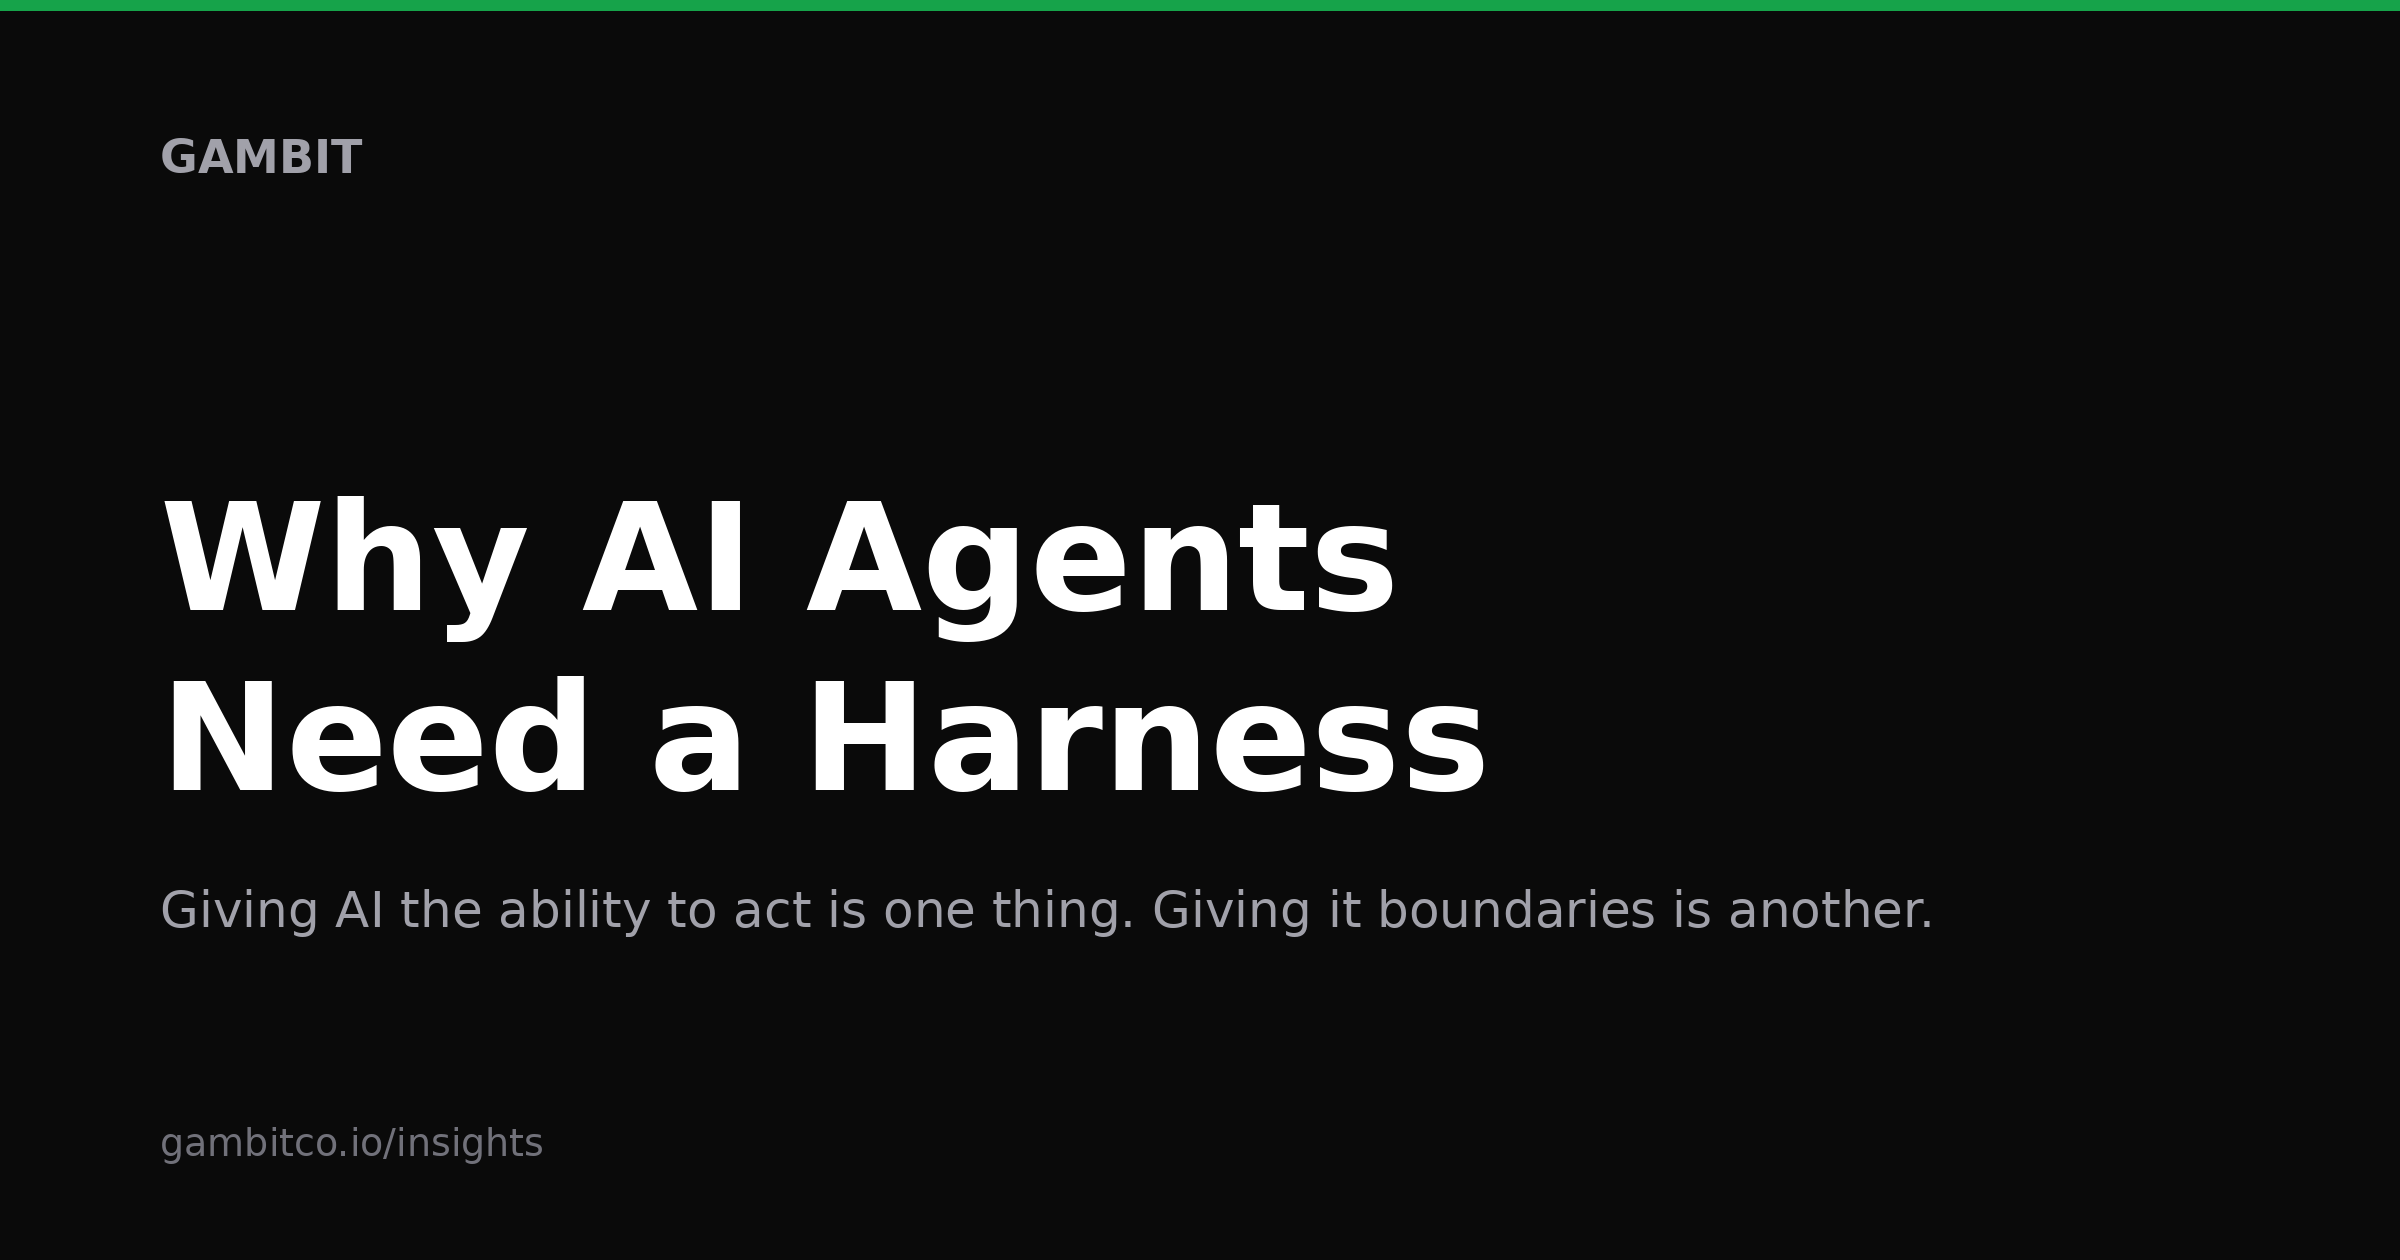
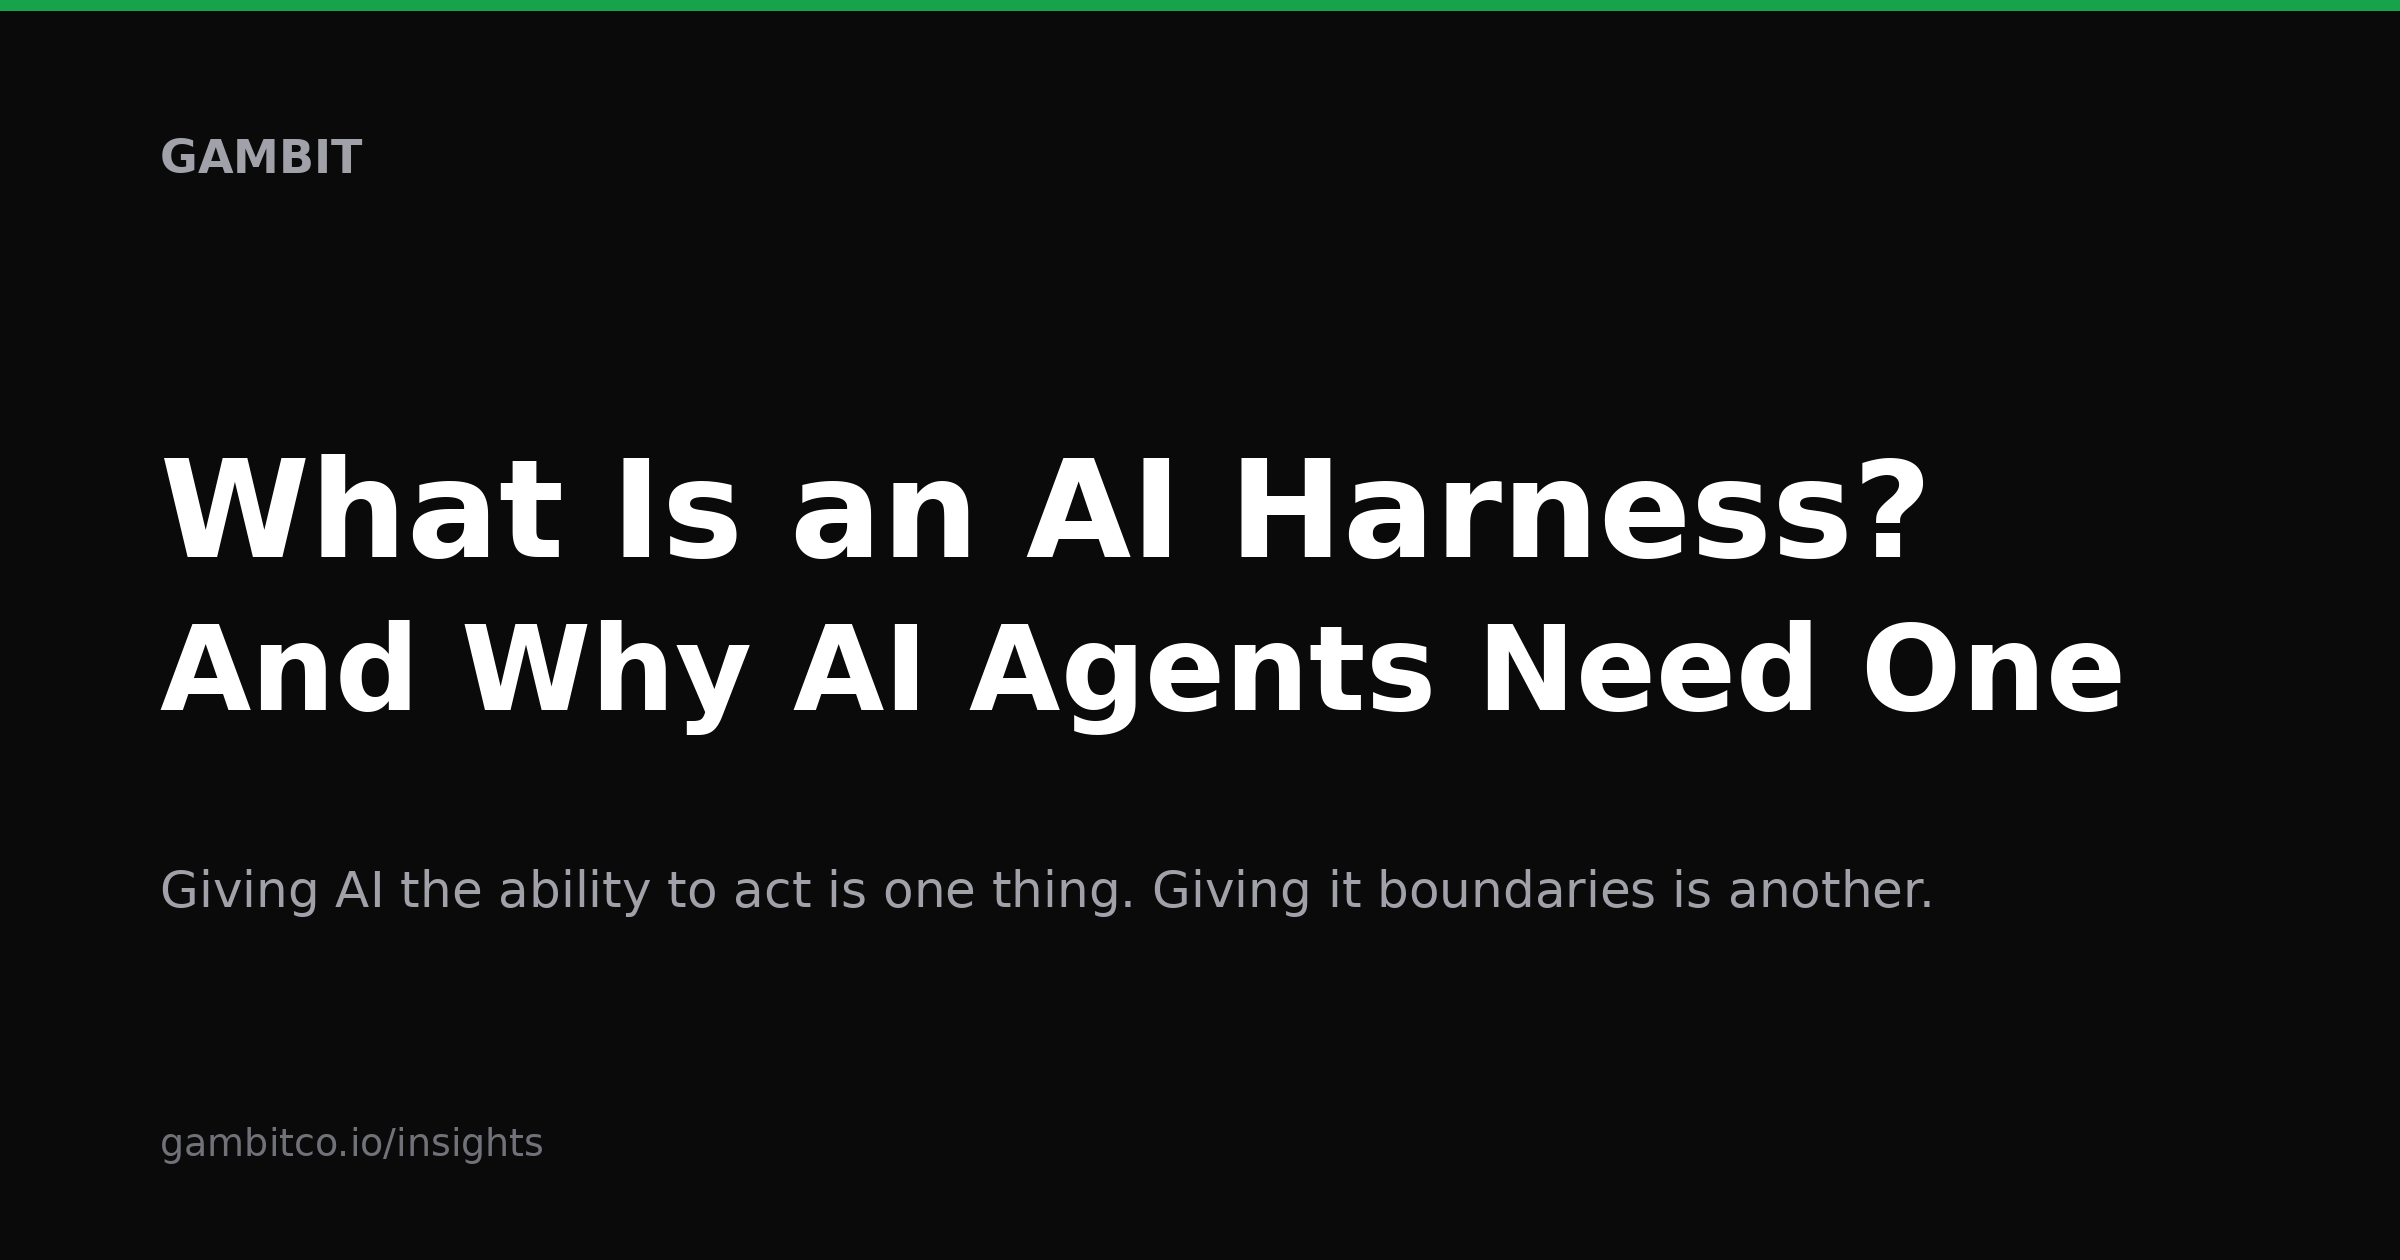
Retitle harness post to 'What Is an AI Harness? And Why AI Agents Need One'
Update the H1, title tag, Open Graph/Twitter titles, image alt text,
Article headline and breadcrumb in JSON-LD, the Insights featured card,
the homepage latest row, and llms.txt. Regenerate the placeholder
feature image with the new title. URL and image path are unchanged;
body copy is unchanged.

Claude-Session: https://claude.ai/code/session_01V5RbvJXGwmqMfodqdC8wpe

Changed region(s): [[0.0625, 0.3405, 0.9062, 0.65], [0.0625, 0.681, 0.8125, 0.7429]]

diff --git a/why-ai-agents-need-a-harness.html b/why-ai-agents-need-a-harness.html
@@ -19,7 +19,7 @@
 </script>
 <meta charset="UTF-8">
 <meta name="viewport" content="width=device-width, initial-scale=1.0">
-<title>Gambit | Why AI Agents Need a Harness</title>
+<title>Gambit | What Is an AI Harness? And Why AI Agents Need One</title>
 
 <!-- PRIMARY SEO -->
 <meta name="description" content="What is an AI harness? It’s the structure around a model that controls what an AI agent can see, touch, and decide, and what happens when something breaks.">
@@ -31,11 +31,11 @@
 <meta property="og:type" content="article">
 <meta property="og:site_name" content="GambitCo">
 <meta property="og:locale" content="en_US">
-<meta property="og:title" content="Why AI Agents Need a Harness">
+<meta property="og:title" content="What Is an AI Harness? And Why AI Agents Need One">
 <meta property="og:description" content="What is an AI harness? It’s the structure around a model that controls what an AI agent can see, touch, and decide, and what happens when something breaks.">
 <meta property="og:url" content="https://gambitco.io/why-ai-agents-need-a-harness">
 <meta property="og:image" content="https://gambitco.io/img/why-ai-agents-need-a-harness-featured.png">
-<meta property="og:image:alt" content="Why AI Agents Need a Harness: giving AI the ability to act is one thing, giving it boundaries is another">
+<meta property="og:image:alt" content="What Is an AI Harness? And Why AI Agents Need One. Giving AI the ability to act is one thing, giving it boundaries is another">
 <meta property="og:image:width" content="2400">
 <meta property="og:image:height" content="1260">
 <meta property="article:published_time" content="2026-09-30">
@@ -48,17 +48,17 @@
 
 <!-- TWITTER CARD -->
 <meta name="twitter:card" content="summary_large_image">
-<meta name="twitter:title" content="Why AI Agents Need a Harness">
+<meta name="twitter:title" content="What Is an AI Harness? And Why AI Agents Need One">
 <meta name="twitter:description" content="What is an AI harness? It’s the structure around a model that controls what an AI agent can see, touch, and decide, and what happens when something breaks.">
 <meta name="twitter:image" content="https://gambitco.io/img/why-ai-agents-need-a-harness-featured.png">
-<meta name="twitter:image:alt" content="Why AI Agents Need a Harness: giving AI the ability to act is one thing, giving it boundaries is another">
+<meta name="twitter:image:alt" content="What Is an AI Harness? And Why AI Agents Need One. Giving AI the ability to act is one thing, giving it boundaries is another">
 
 <!-- STRUCTURED DATA -->
 <script type="application/ld+json">
 {
   "@context": "https://schema.org",
   "@type": "Article",
-  "headline": "Why AI Agents Need a Harness",
+  "headline": "What Is an AI Harness? And Why AI Agents Need One",
   "alternativeHeadline": "Giving AI the ability to act is one thing. Giving it boundaries is another.",
   "description": "What is an AI harness? It’s the structure around a model that controls what an AI agent can see, touch, and decide, and what happens when something breaks.",
   "image": "https://gambitco.io/img/why-ai-agents-need-a-harness-featured.png",
@@ -93,7 +93,7 @@
   "itemListElement": [
     { "@type": "ListItem", "position": 1, "name": "Home", "item": "https://gambitco.io/" },
     { "@type": "ListItem", "position": 2, "name": "Insights", "item": "https://gambitco.io/insights" },
-    { "@type": "ListItem", "position": 3, "name": "Why AI Agents Need a Harness", "item": "https://gambitco.io/why-ai-agents-need-a-harness" }
+    { "@type": "ListItem", "position": 3, "name": "What Is an AI Harness? And Why AI Agents Need One", "item": "https://gambitco.io/why-ai-agents-need-a-harness" }
   ]
 }
 </script>
@@ -609,7 +609,7 @@ a:focus-visible, button:focus-visible { outline: 2px solid var(--ink); outline-o
   <a href="/insights" class="article-back">← Back to Insights</a>
 
   <div class="article-header">
-    <h1>Why AI Agents Need a Harness</h1>
+    <h1>What Is an AI Harness? And Why AI Agents Need One</h1>
     <p class="article-subtitle">Giving AI the ability to act is one thing. Giving it boundaries is another.</p>
     <div class="article-meta">
       <span>Alex Bukowski</span>

diff --git a/index.html b/index.html
@@ -1265,7 +1265,7 @@ a:focus-visible,button:focus-visible,.btn:focus-visible,.suite-card:focus-visibl
       <a href="/insights">View all <span class="ar">&rarr;</span></a>
     </div>
     <p class="news-sub">Catch up on everything that's been going on with us.</p>
-    <a class="news-row" href="/why-ai-agents-need-a-harness"><span class="nd">Sep 2026</span><span class="news-thumb"><img src="/img/why-ai-agents-need-a-harness-featured.png" alt="" loading="lazy"></span><span><span class="nt">Why AI agents need a harness</span><div class="np">Giving AI the ability to act is one thing. Giving it boundaries is another. Here’s what an AI harness is, and why AI agents need one.</div></span><span class="na">&rarr;</span></a>
+    <a class="news-row" href="/why-ai-agents-need-a-harness"><span class="nd">Sep 2026</span><span class="news-thumb"><img src="/img/why-ai-agents-need-a-harness-featured.png" alt="" loading="lazy"></span><span><span class="nt">What is an AI harness? And why AI agents need one</span><div class="np">Giving AI the ability to act is one thing. Giving it boundaries is another. Here’s what an AI harness is, and why AI agents need one.</div></span><span class="na">&rarr;</span></a>
     <a class="news-row" href="/ai-has-changed-dramatically"><span class="nd">Sep 2026</span><span class="news-thumb"><img src="/img/ai_evolution_for_business.png" alt="" loading="lazy"></span><span><span class="nt">AI has changed dramatically. Here's what it can do now</span><div class="np">AI went from chatbots to reliable AI workers in just a few years. Here's how access, tools, and the harness around the model changed what AI can do for business.</div></span><span class="na">&rarr;</span></a>
     <a class="news-row" href="/how-businesses-are-implementing-agentic-ai"><span class="nd">Aug 2026</span><span class="news-thumb"><img src="/img/agentic_ai_in_action_featured.png" alt="" loading="lazy"></span><span><span class="nt">How today's businesses are implementing agentic AI (7 examples)</span><div class="np">See what AI agents can do across sales, research, customer service, logistics, and more, using the AI workers we've built at Gambit.</div></span><span class="na">&rarr;</span></a>
     <a class="news-row" href="/what-is-agentic-ai"><span class="nd">Aug 2026</span><span class="news-thumb"><img src="/img/Agentic%20AI%20Explained%20Featured.png" alt="" loading="lazy"></span><span><span class="nt">What is agentic AI and how does it work?</span><div class="np">Moving past the tech jargon to explore how AI is shifting from an app you use to a teammate you can delegate to.</div></span><span class="na">&rarr;</span></a>

diff --git a/insights.html b/insights.html
@@ -400,10 +400,10 @@ a:focus-visible, button:focus-visible { outline: 2px solid var(--ink); outline-o
   </div>
 
   <a href="/why-ai-agents-need-a-harness" class="insight-featured">
-    <div class="insight-featured-img"><img src="/img/why-ai-agents-need-a-harness-featured.png" alt="Why AI Agents Need a Harness: giving AI the ability to act is one thing, giving it boundaries is another" loading="lazy"></div>
+    <div class="insight-featured-img"><img src="/img/why-ai-agents-need-a-harness-featured.png" alt="What Is an AI Harness? And Why AI Agents Need One. Giving AI the ability to act is one thing, giving it boundaries is another" loading="lazy"></div>
     <div>
       <div class="insight-featured-date">Sep 2026</div>
-      <div class="insight-featured-title">Why AI Agents Need a Harness</div>
+      <div class="insight-featured-title">What Is an AI Harness? And Why AI Agents Need One</div>
       <div class="insight-featured-desc">Giving AI the ability to act is one thing. Giving it boundaries is another. Here’s what an AI harness is, and why AI agents need one.</div>
       <div class="insight-featured-author">Alex Bukowski</div>
     </div>
